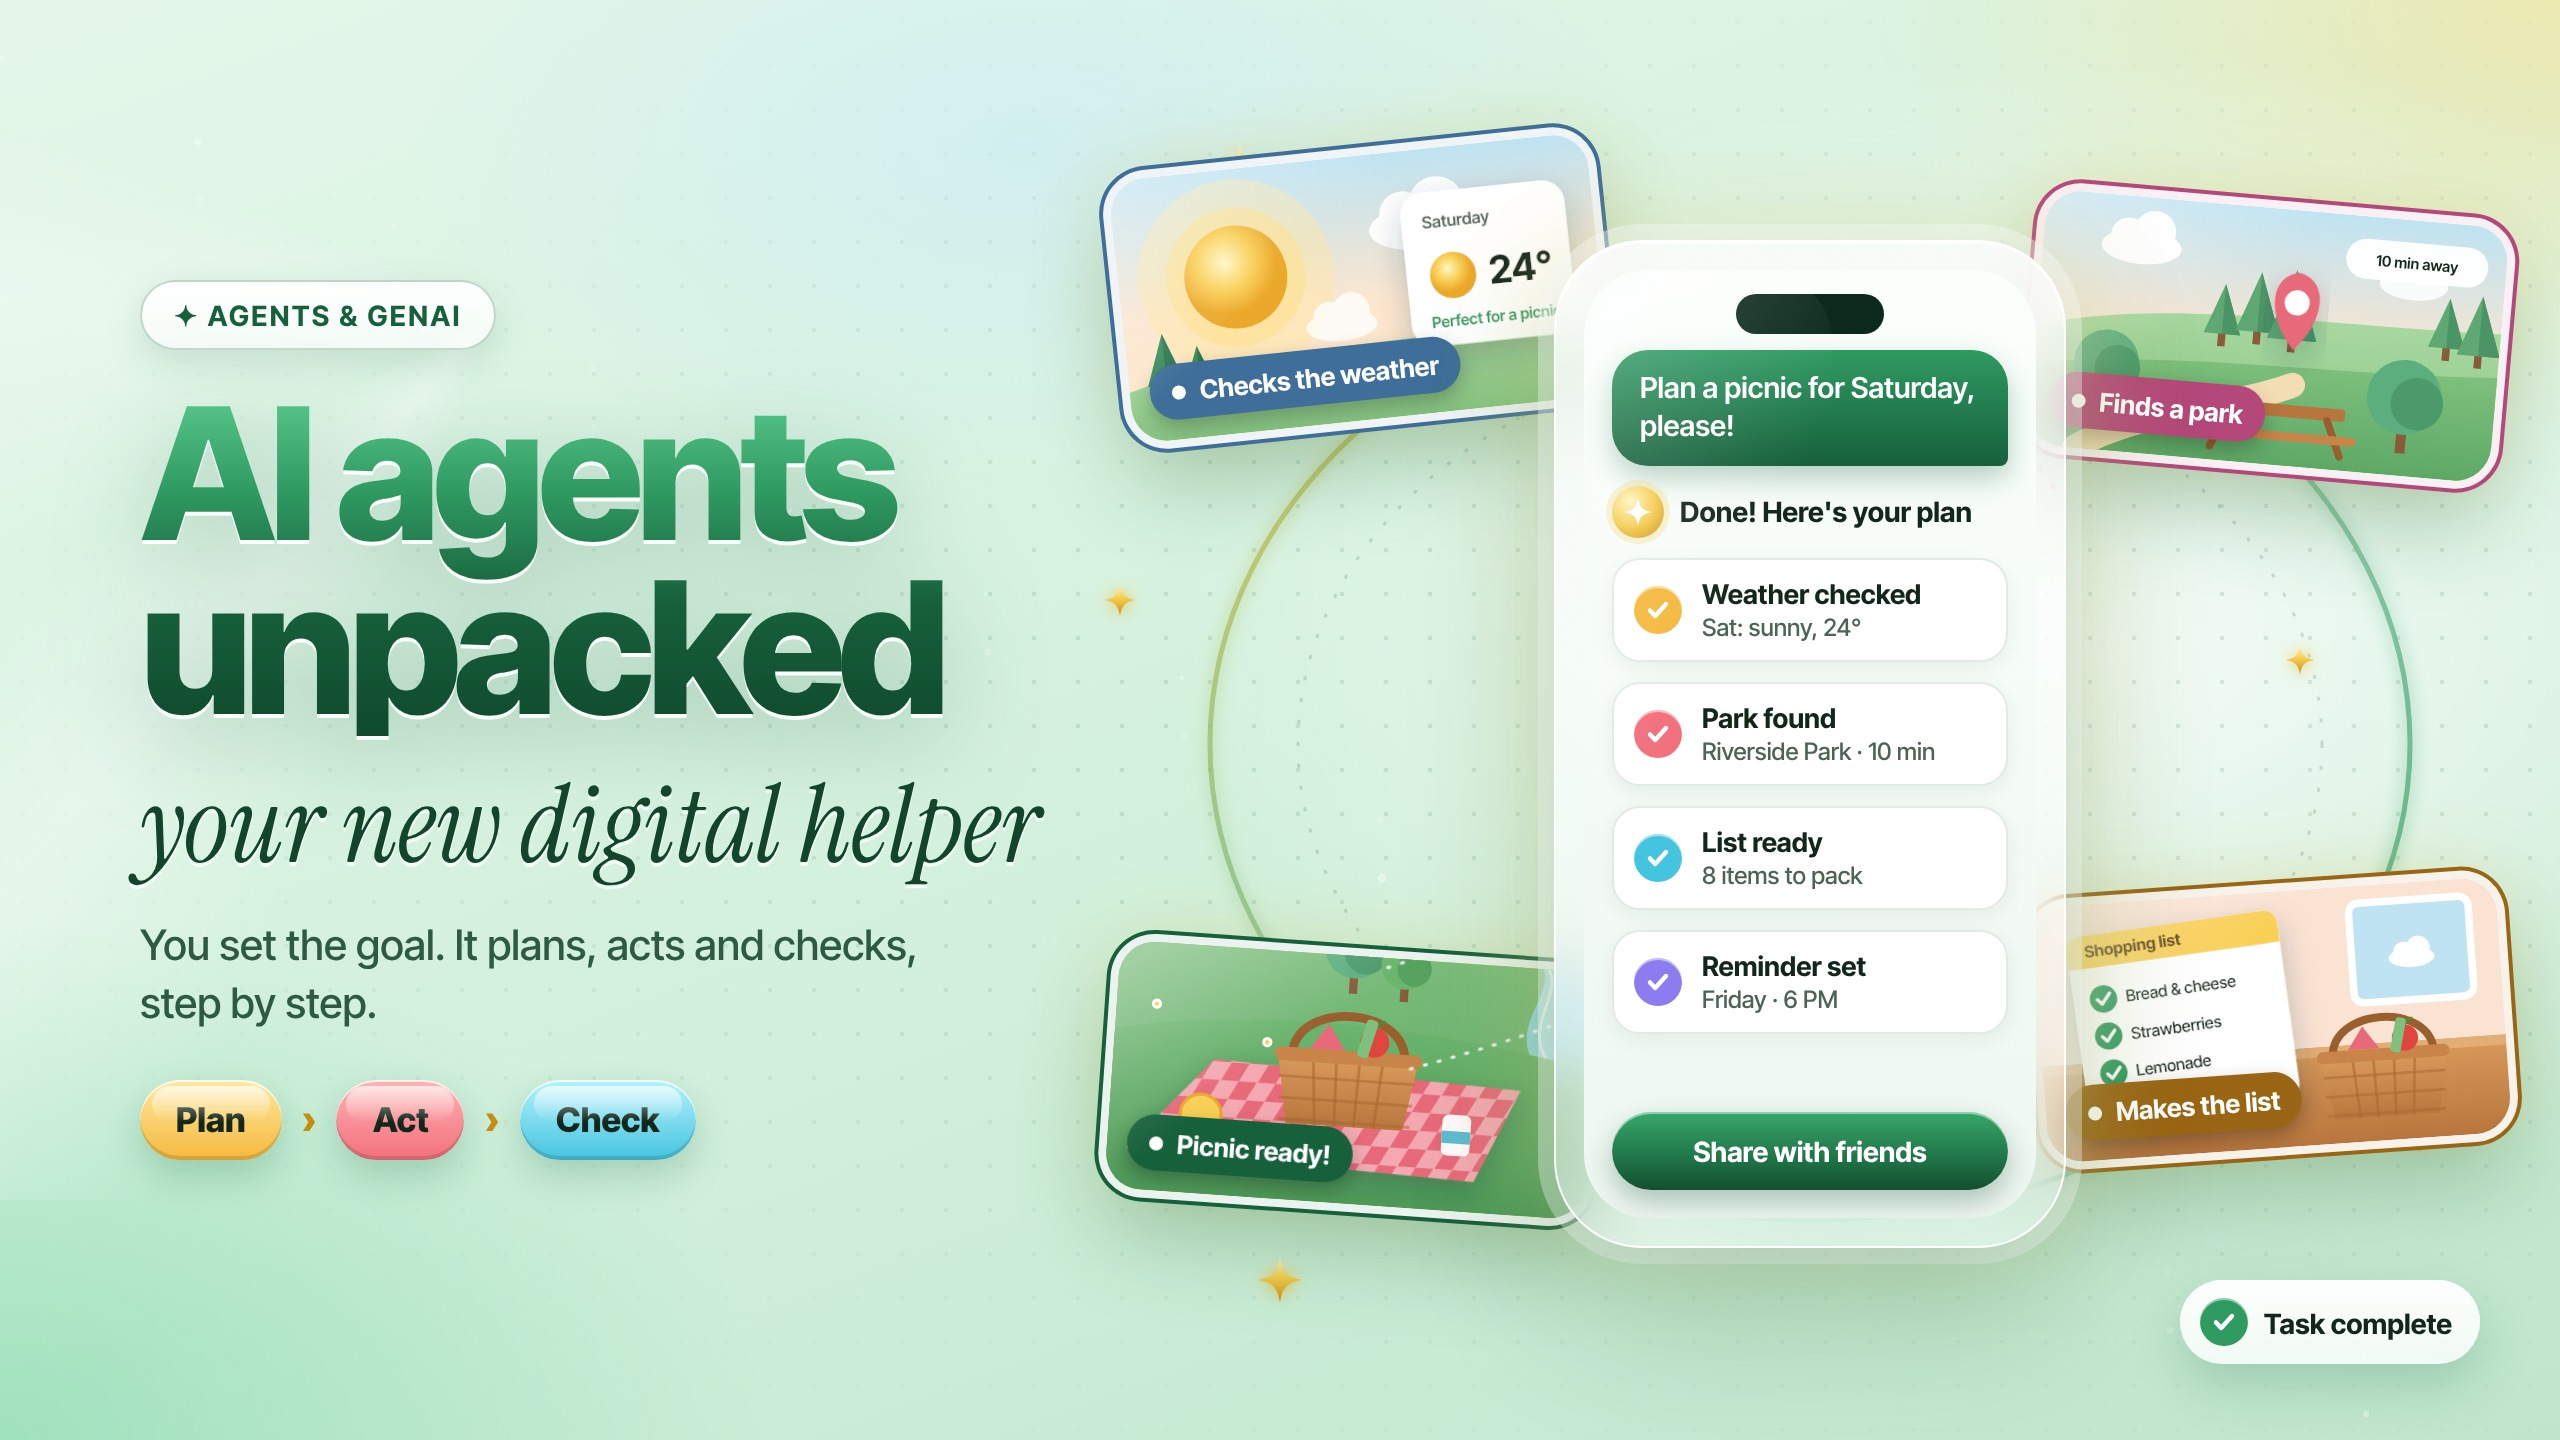
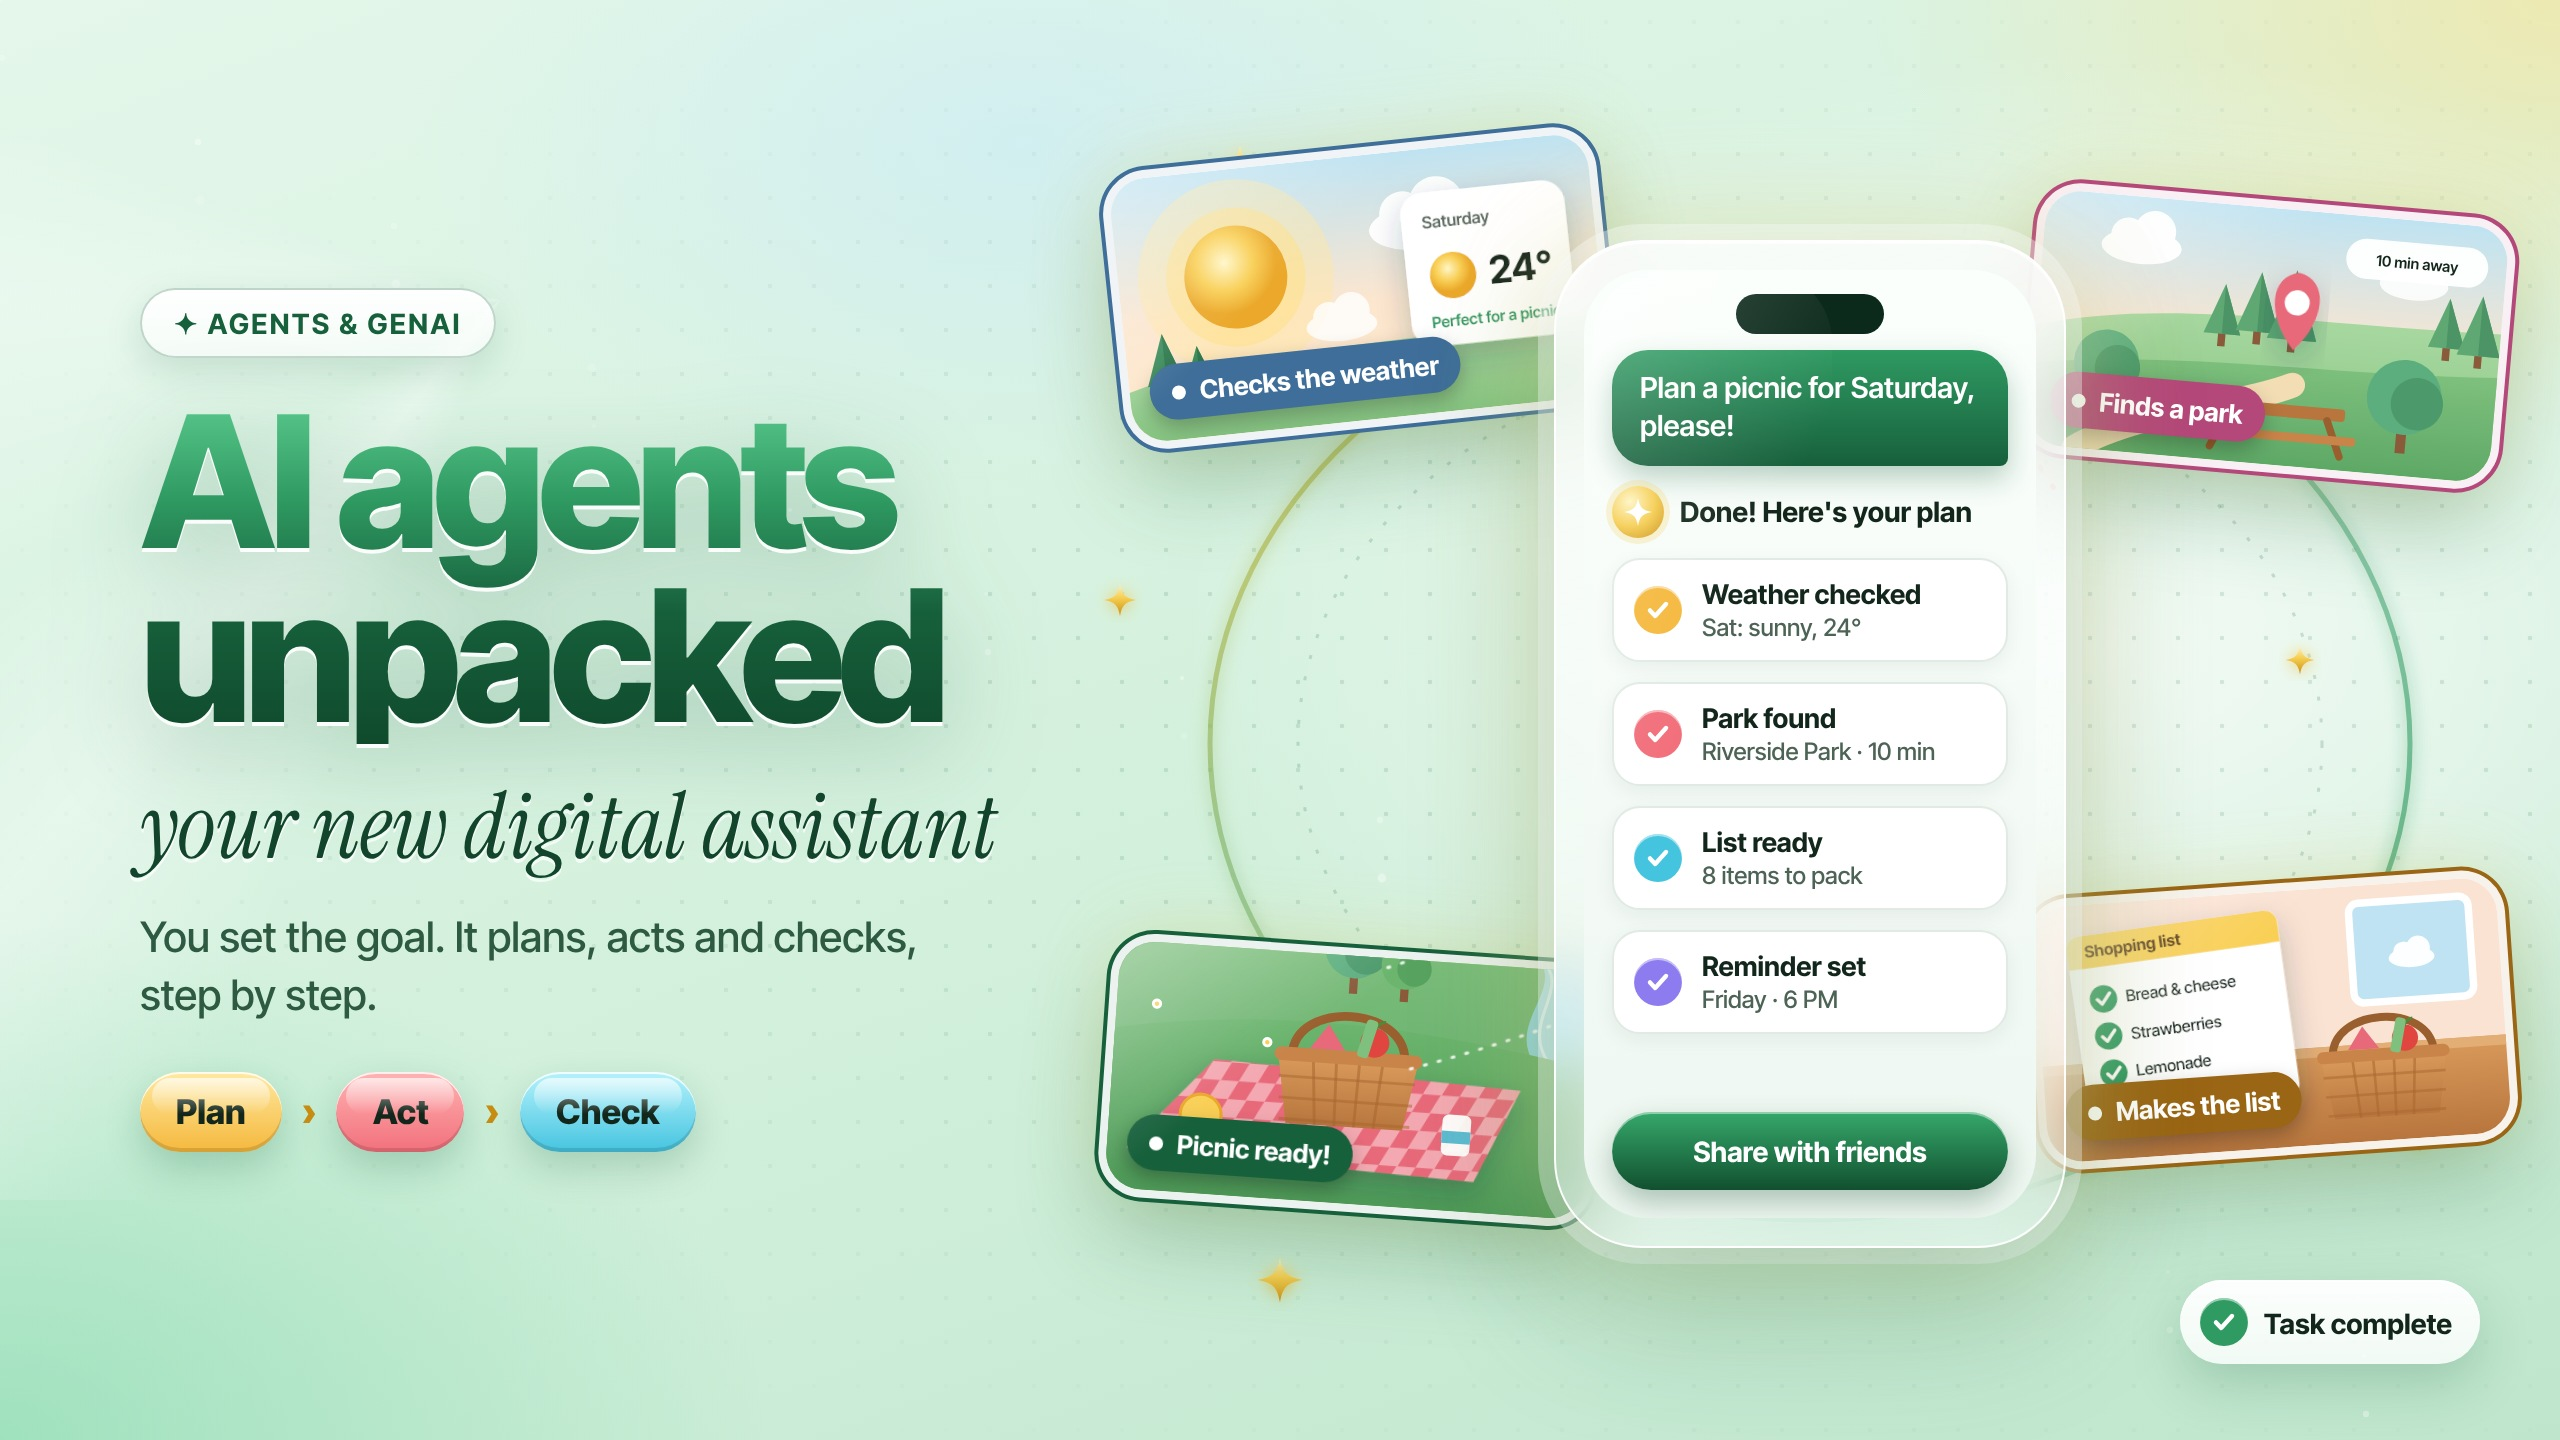
AI agents article: 'digital assistant' instead of 'helper'
Claude-Session: https://claude.ai/code/session_011joVF6bbyZDhpZpCEdrVDq

diff --git a/src/content/posts/what-is-agentic-ai.md b/src/content/posts/what-is-agentic-ai.md
@@ -1,12 +1,12 @@
 ---
-title: "AI agents unpacked: your new digital helper"
-description: "Chatbots chat. AI agents get it done. Meet the digital helpers everyone's talking about: how they plan, act and check their work, and how you stay in the driver's seat."
+title: "AI agents unpacked: your new digital assistant"
+description: "Chatbots chat. AI agents get it done. Meet the digital assistants everyone's talking about: how they plan, act and check their work, and how you stay in the driver's seat."
 pubDate: 2026-11-05
 topic: "Agents & GenAI"
 level: Beginner
 featured: true
 cover: /images/cover-agentic.jpg
-coverAlt: "A shiny pastel green cover: the glossy green headline 'AI agents unpacked' above 'your new digital helper' and three glossy buttons, Plan, Act and Check. A glass phone shows the request 'Plan a picnic for Saturday, please!' with four ticked steps, surrounded by four illustrated picture cards: a sunny 24° forecast, a park with a map pin and picnic table, a ticked shopping list beside a basket, and a checked picnic blanket with a basket on the grass, plus a 'Task complete' badge."
+coverAlt: "A shiny pastel green cover: the glossy green headline 'AI agents unpacked' above 'your new digital assistant' and three glossy buttons, Plan, Act and Check. A glass phone shows the request 'Plan a picnic for Saturday, please!' with four ticked steps, surrounded by four illustrated picture cards: a sunny 24° forecast, a park with a map pin and picnic table, a ticked shopping list beside a basket, and a checked picnic blanket with a basket on the grass, plus a 'Task complete' badge."
 takeaways:
   - "Generative AI answers a prompt; an AI agent works towards a goal through many steps."
   - "Agents follow a simple loop: plan, act with tools, check the result, repeat."
@@ -17,15 +17,15 @@ takeaways:
 
 Picture this: you ask a friend, *"Can you help me plan a picnic for Saturday?"* One friend sends you a lovely list of ideas. The other checks the weather, finds a park nearby, and hands you a ready-made shopping list.
 
-Both are helpful. But that second friend? That's **agentic AI**: your new digital helper.
+Both are helpful. But that second friend? That's **agentic AI**: your new digital assistant.
 
-## Generative AI: the creative helper
+## Generative AI: the creative partner
 
 **Generative AI** (often shortened to **gen AI**) is the AI you've probably already met. You ask a question or give it a prompt, and it *creates* something new: an answer, a poem, a picture, a summary or a piece of code.
 
 It works one reply at a time. You ask, it answers, and you decide what happens next. (Curious how it writes? See [how chatbots read text](/blog/tokenizers-quirks/) and [how image AI paints from static](/blog/diffusion-noise-to-image/).)
 
-## Agentic AI: your new digital helper
+## Agentic AI: your new digital assistant
 
 An **AI agent** uses the same kind of model, but instead of stopping after one reply, it works towards a **goal**. You describe what you'd like, and the agent figures out the steps, uses tools to carry them out, and checks how it's going along the way.
 
@@ -50,14 +50,14 @@ The agent repeats this loop until the goal is done, or until it needs your help.
 
 ## Agents you might already use
 
-- **Research helpers** that search several websites, read them, and write you a summary with links.
+- **Research assistants** that search several websites, read them, and write you a summary with links.
 - **Coding assistants** that read a project, make changes across many files, and run tests to check their work.
-- **Browser and computer helpers** that can click, type and fill in forms for you, with your permission.
+- **Browser and computer assistants** that can click, type and fill in forms for you, with your permission.
 - **Customer support agents** that can look up an order and arrange a return, instead of only answering questions.
 
 ## Staying in charge
 
-Agents are most helpful when you set clear, friendly boundaries, just as you would for a new helper at home or work.
+Agents are most helpful when you set clear, friendly boundaries, just as you would for a new assistant at home or work.
 
 - **Give a clear goal.** "Find three parks within 15 minutes of home with picnic tables" works better than "sort out Saturday."
 - **Choose what it can touch.** Only connect the apps and accounts it really needs.

diff --git a/CONTENT-PLAN.md b/CONTENT-PLAN.md
@@ -20,7 +20,7 @@ To make a post the feature, add `featured: true` to its front matter and remove 
 | 1 | Nov 3, 2026 | Creative AI | Creative AI: how to use AI as your creative co-pilot | ✅ Published (`ai-creativity-guide`) |
 | 2 | Nov 3, 2026 | Future of Work | AI and your career: how to thrive in the future of work | ✅ Published (`ai-and-your-job`) |
 | 3 | Nov 3, 2026 | AI for the Planet | AI for the planet: 5 ways AI is protecting nature | ✅ Published (`ai-protecting-nature`) |
-| ⭐ | Nov 5, 2026 | Agents & GenAI | AI agents unpacked: your new digital helper | ✅ Published, Thursday feature (`what-is-agentic-ai`) |
+| ⭐ | Nov 5, 2026 | Agents & GenAI | AI agents unpacked: your new digital assistant | ✅ Published, Thursday feature (`what-is-agentic-ai`) |
 | 4 | Nov 5, 2026 | AI Toolkit | AI toolkit: the 7 best free AI tools for everyday life | ✅ Published (`top-7-ai-tools`), feature it on Nov 12 |
 | 5 | Nov 19, 2026 | LLMs Decoded | What is a chatbot, really? A beginner's guide | Planned |
 | 6 | Nov 26, 2026 | Everyday AI | How AI is helping doctors spot disease earlier | Planned |

diff --git a/src/content/posts/top-7-ai-tools.md b/src/content/posts/top-7-ai-tools.md
@@ -130,6 +130,6 @@ Pick **one** tool from this list and use it for one small task each day for a we
 
 ## Further reading
 
-- [AI agents unpacked: your new digital helper](/blog/what-is-agentic-ai/)
+- [AI agents unpacked: your new digital assistant](/blog/what-is-agentic-ai/)
 - [LLM evaluation made simple: how to test a chatbot fairly](/blog/evaluating-llm-outputs/)
 - [Creative AI: how to use AI as your creative co-pilot](/blog/ai-creativity-guide/)
